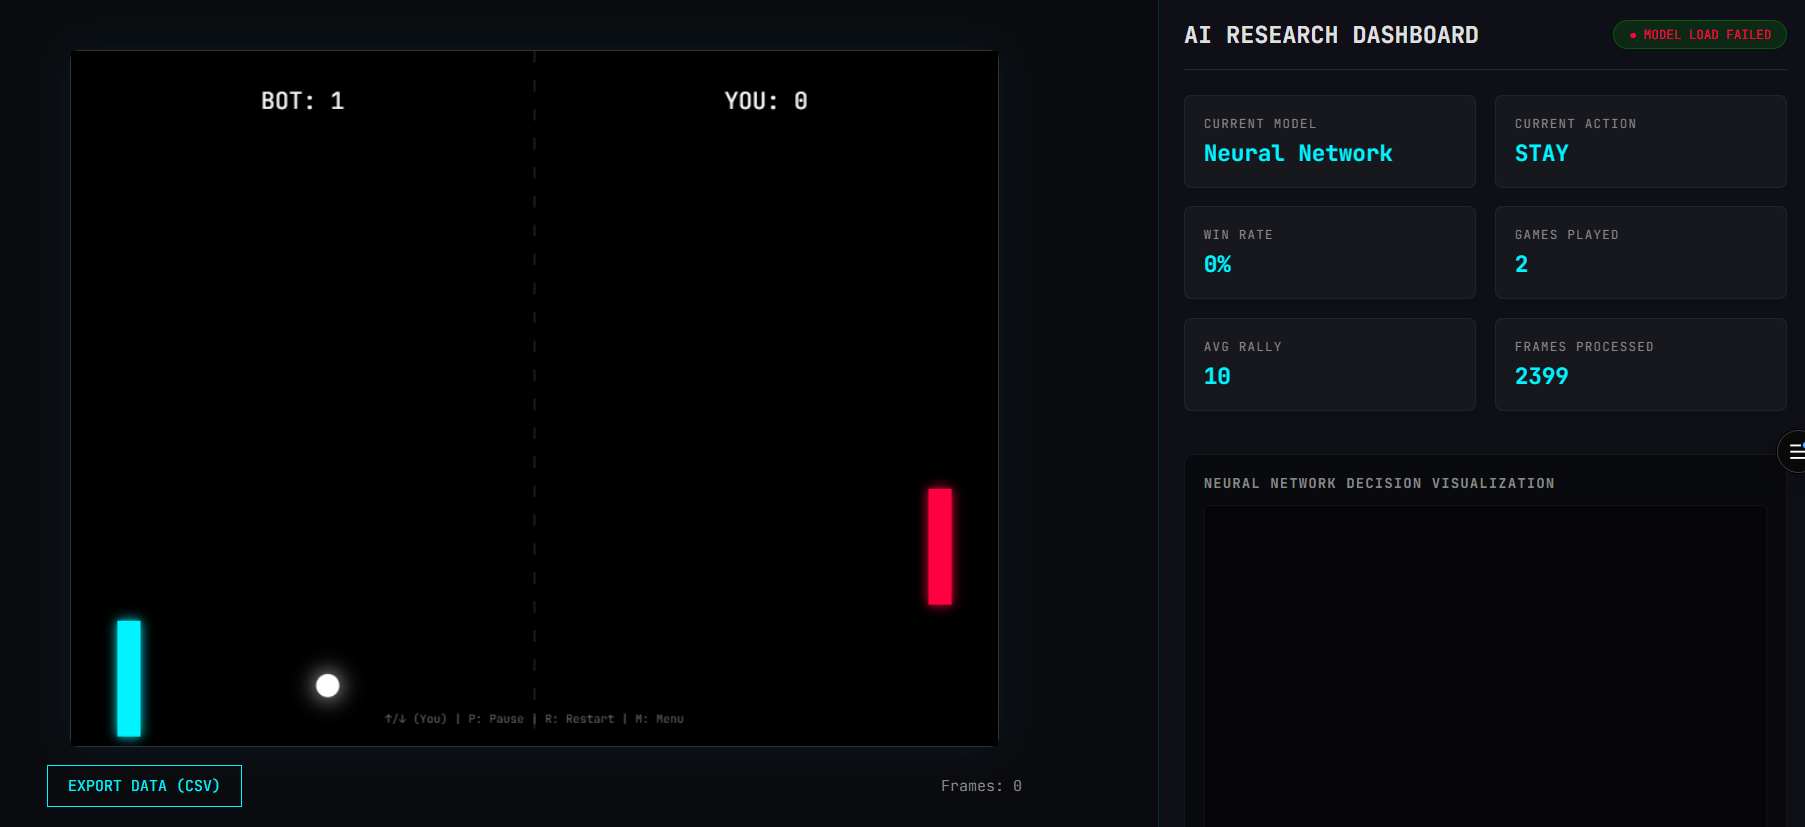
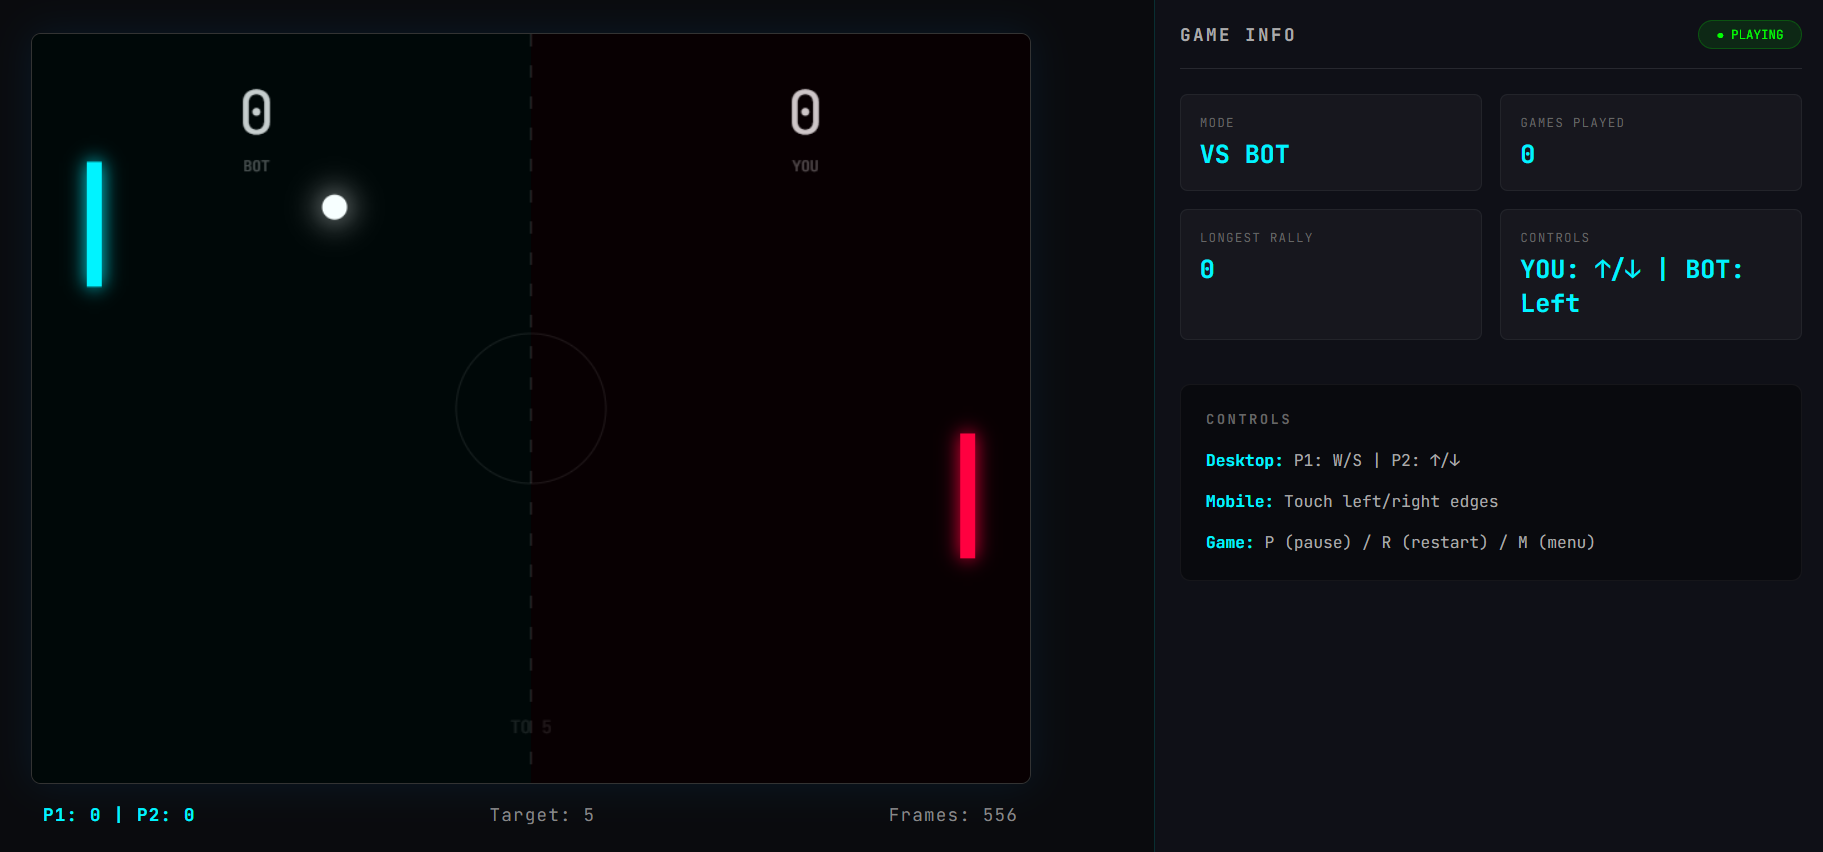
readme

diff --git a/README.md b/README.md
@@ -1,65 +1,95 @@
-# 🕸️ AI Pong Lab
+# PONG
 
-An interactive behavioral cloning experiment where a Neural Network learns to play Pong from human gameplay data.
+![HTML5](https://img.shields.io/badge/HTML5-Canvas-E34F26?logo=html5&logoColor=white)
+![CSS3](https://img.shields.io/badge/CSS3-Responsive-1572B6?logo=css3&logoColor=white)
+![JavaScript](https://img.shields.io/badge/JavaScript-Vanilla-F7DF1E?logo=javascript&logoColor=black)
+![No Build Step](https://img.shields.io/badge/Build%20Step-None-brightgreen)
 
-![Python](https://img.shields.io/badge/Python-3.8%2B-3776AB?style=flat-square&logo=python&logoColor=white)
-![TensorFlow](https://img.shields.io/badge/TensorFlow-2.0%2B-FF6F00?style=flat-square&logo=tensorflow&logoColor=white)
-![TF.js](https://img.shields.io/badge/TF.js-4.22%2B-FF6F00?style=flat-square&logo=tensorflow&logoColor=white)
-![Vercel](https://img.shields.io/badge/Deployed-Vercel-000000?style=flat-square&logo=vercel&logoColor=white)
-![Status](https://img.shields.io/badge/Status-Prototype-yellow?style=flat-square)
-![License](https://img.shields.io/badge/License-MIT-green?style=flat-square)
+Two paddles, one ball, a bot with commitment issues, and a terminal-style dashboard that watches the whole thing like it's monitoring a server rack. It's Pong. You already know the rules. This doc is about the plumbing.
 
-> **Warning:** This is an active research prototype. The codebase is intended for experimentation, not production deployment.
 
----
 
-## What is this?
+**Play it here:** [https://furged-pong.vercel.app/](https://furged-pong.vercel.app/)
 
-You play Pong. The game records your decisions. A Neural Network learns from your data and fights you in real-time.
-
-It's a simple demonstration of behavioral cloning — watching a human, then imitating them.
-
----
-
-## Features
-
-- **Play vs AI** – The opponent is driven by a trained Neural Network.
-- **Local Multiplayer** – 2 players (W/S and Arrow Keys).
-- **Data Collection** – Export every frame as a CSV for further training.
-- **Live Dashboard** – See AI confidence, action, and win rate update in real-time.
-- **Neural Network Visualizer** – Watch inputs (ball position, velocity) flow into outputs (UP/DOWN/STAY).
-- **Customizable UI** – Change paddle, ball, and background colors.
-
----
-
-## Tech Stack
-
-- HTML5, CSS3, JavaScript (Frontend & Game Engine)
-- HTML5 Canvas (2D rendering)
-- TensorFlow.js (Browser-based inference)
-- Python, TensorFlow, Keras (Training in Google Colab)
-- Vercel (Live deployment)
-
----
 
 ## Screenshot
 
-![AI Pong Lab Screenshot](Screenshot.png)
+![Pong screenshot](./Screenshot.png)
 
----
+## Gameplay, briefly
 
-## Run Locally
+- **VS Bot** or **Multiplayer**, picked from the menu.
+- Win target from 3 to 21, or **Infinite** if you have a grudge to settle.
+- Every paddle hit nudges the ball's speed up (capped, so it doesn't become a bullet).
+- Bounce angles are randomized within a range, not a clean mirror reflection, so rallies don't feel scripted even when you're hitting the same spot every time.
 
-1. Clone the repository:
-   git clone https://github.com/furged/Pong-game.git
+## The game loop
 
-2. Open the folder and double-click `index.html`.
-3. Choose **Play vs AI** or **Multiplayer**.
+One `requestAnimationFrame` loop, doing the same two things forever:
 
-> **Note:** The live deployment has a known TensorFlow.js parser bug. Running locally bypasses this issue and loads the model instantly. The fix is tracked [here](https://github.com/furged/Pong-game/issues/1).
+```js
+function gameLoop() {
+    update();  // physics + input
+    draw();    // render the frame
+    requestAnimationFrame(gameLoop);
+}
+```
 
----
+No fixed timestep, no substeps. At 60fps, for a game where the entire physics model is "does a circle overlap a rectangle," adding that complexity would've been solving a problem I didn't have.
 
-## Author
+## Ball physics
 
-Built as a Machine Learning portfolio project by [furged](https://github.com/furged).
+Just a velocity vector (`ballDX`, `ballDY`) added to position every frame.
+
+- **Wall hit** → flip Y.
+- **Paddle hit** → flip X, then run through a speed-up step that converts the vector to polar form (angle + magnitude), bumps the magnitude, converts back. Preserves direction, only touches speed, scaling both components directly would've quietly warped the angle over time.
+- **Round reset** → new angle with a random offset, clamped so it never leaves at a flat, rally-killing angle.
+
+## Collision detection
+
+Axis-aligned bounding boxes. That's it. The ball is technically a circle, the check treats it like a box, at this size and speed nobody notices, and pretending otherwise would've been effort spent on a problem the pixels don't care about.
+
+## Controls
+
+**Desktop:** keyboard state flags (`wPressed`, `upPressed`, etc.) set on `keydown`/`keyup`, read every frame in `update()`. Smoother than reacting to the raw event, no input lag from event throttling.
+
+**Mobile:** touch-driven, and the part that actually took effort. The lazy way to read touch input is `e.touches[0]`, the *first finger touching the screen, anywhere*. Works fine for one player. Falls apart the second a real opponent shows up, because both paddles start grabbing the same touch.
+
+Fix: track each side's touch by its `identifier` from `changedTouches`.
+
+```js
+if (leftTouchId === null) {
+    leftTouchId = touch.identifier;
+}
+```
+
+Left paddle locks onto its finger, right paddle locks onto its own, two-player, two-finger, same phone, no cross-talk.
+
+## Bot AI
+
+Two layers of "not a robot":
+
+1. **Baseline sloppiness** - chases the ball's Y with a randomized offset each frame instead of pixel-perfect tracking.
+2. **Occasional blackout** - a small, rare per-frame chance of a short "mistake window" where it aims somewhere completely wrong for a fraction of a second.
+
+Tuned to trigger a handful of times per game, max. Enough that it feels like the bot had a moment, not enough that it feels like the game is throwing you a bone.
+
+## Mobile layout notes
+
+- Canvas is sized by **height** on mobile instead of width, a width-constrained 4:3 canvas on a tall phone leaves dead space above and below it like a letterboxed movie nobody asked for.
+- `touch-action` is scoped per element, not slapped on `<body>`. Turns out its *effective* value is the intersection of an element and every ancestor's value, set `none` globally and you've quietly killed scrolling on the entire page, dashboard included, and spend an hour wondering why.
+- Sidebar control hints swap between keyboard and touch text depending on device, so mobile users aren't told to press ↑/↓ on a screen with no keys on it.
+
+## Where it started
+
+Prototype was Python, Pygame for rendering, NumPy for the vector math. The mechanics (speed scaling, angled bounces, bot tracking) carried straight over into the JS/Canvas rebuild. What changed was the delivery: no installs, runs from a URL, works on a phone.
+
+## Files
+
+```
+index.html   canvas, menu, settings, dashboard markup
+style.css    styling + all the mobile/responsive rules
+script.js    game loop, physics, AI, input handling
+```
+
+No build step. No dependencies. Open `index.html`, done.